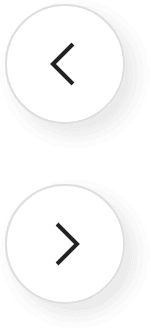
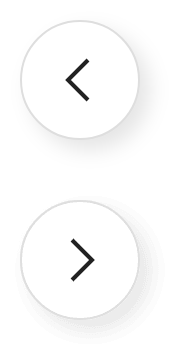
PC - 어복황제 페이지 완료

diff --git a/fish.html b/fish.html
@@ -6,6 +6,10 @@
     <meta name="viewport" content="width=device-width, initial-scale=1.0 ,maximum-scale=1.0, user-scalable=0">
     <!-- Iphone 모바일 확대 방지  maximum-scale=1.0, user-scalable=0-->
     <title>어복황제</title> 
+    <!-- Link Swiper's CSS -->
+    <link rel="stylesheet" href="https://cdn.jsdelivr.net/npm/swiper@10/swiper-bundle.min.css" />
+    <!-- Swiper JS -->
+    <script src="https://cdn.jsdelivr.net/npm/swiper@10/swiper-bundle.min.js"></script>
     <link rel="stylesheet" href="css/import.css">
     <script src="https://code.jquery.com/jquery-3.7.0.min.js" integrity="sha256-2Pmvv0kuTBOenSvLm6bvfBSSHrUJ+3A7x6P5Ebd07/g=" crossorigin="anonymous"></script>
     <script src="js/common.js"></script>
@@ -25,63 +29,76 @@
     </header>
 
     <div class="fishPage">
-        <div class="homeArea">
+        <div class="homeArea contentsSize contentsBlcok">
             <div data-app="이용자">
-                <h2></h2>
-                <mark></mark>
-                <p></p>
+                <h2>
+                    낚시, 언제 어디로<br>
+                    가면 좋을까?
+                </h2>
+                <mark>빅데이터 기반 낚시 예약 앱</mark>
+                <p>
+                    물때와 바람의 방향을 고려해 조황 정보 추천해 드립니다.<br>
+                    낚시 예약, 편하게 어복황제에서.
+                </p>
                 <a href="" class="icon-google">구글 플레이 스토어 앱 다운로드</a>
                 <a href="" class="icon-apply">애플 앱스토어 앱 다운로드</a>
             </div>
         </div>
 
-        <section class="mainFunc">
+        <hr class="fullBg">
+
+        <section class="mainFunc contentsBlcok">
             <h3>어복황제 주요 기능</h3>
             <mark>스마트 선박 예약</mark>
             <p>
-                낚시 포인트 추천부터 승선 예약까지 한 번에!
+                낚시 포인트 추천부터 승선 예약까지 한 번에!<br>
                 어복황제에서 빠르고 즐겁게 낚시를 즐기세요!
             </p>
+            <div class="swiper fishSwiper">
+                <div class="swiper-wrapper">
+                    <div class="swiper-slide"><img src="images/fish-slider01.png" alt=""></div>
+                    <div class="swiper-slide"><img src="images/fish-slider02.png" alt=""></div>
+                    <div class="swiper-slide"><img src="images/fish-slider03.png" alt=""></div>
+                    <div class="swiper-slide"><img src="images/fish-slider04.png" alt=""></div>
+                    <div class="swiper-slide"><img src="images/fish-slider05.png" alt=""></div>
+                </div>
+                <!-- <div class="swiper-button-next"></div>
+                <div class="swiper-button-prev"></div> -->
+                <div class="btn-prev"></div>
+                <div class="btn-next"></div>
+            </div>
         </section>
 
-        <section class="detailFunc">
+        <section class="detailFunc contentsSize contentsBlcok fullBg">
             <h3>어복황제 상세 기능</h3>
-            <ul data-tab="btns">
+            <ul data-tab="btns" data-styleIdx="button">
                 <li>
                     <button>
                         <b>HD 조황 라이브</b>
-                        <p>
-                            전국 조황 영상을 실시간 라이브로!
-                            HD급 생생한 낚시 현장을 체험할 수 있습니다.
-                            어복황제에서 집에서도 낚시를 즐겨 보세요!
-                        </p>
+                        전국 조황 영상을 실시간 라이브로!
+                        HD급 생생한 낚시 현장을 체험할 수 있습니다.
+                        어복황제에서 집에서도 낚시를 즐겨 보세요!
                     </button>
                 </li>
                 <li>
                     <button>
                         <b>갯바위 포인트</b>
-                        <p>
-                            전국 갯바위 인기 포인트를 한 눈에! 
-                            포인트별 특징과 낚시 정보를 제공합니다.
-                        </p>
+                        전국 갯바위 인기 포인트를 한 눈에! 
+                        포인트별 특징과 낚시 정보를 제공합니다.
                     </button>
                 </li>
                 <li>
                     <button>
                         <b>물때와 날씨</b>
-                        <p>
-                            오늘의 물때와 날짜별 물때를 제공하여 
-                            알람 설정이 가능합니다.
-                        </p>
+                        오늘의 물때와 날짜별 물때를 제공하여 
+                        알람 설정이 가능합니다.
                     </button>
                 </li>
                 <li>
                     <button>
                         <b>승선 예약</b>
-                        <p>
-                            iOT 기술과 지문 인식 기술을 이용하여 빠르고 
-                            정확한 하이패스 승선 확인이 가능합니다.
-                        </p>
+                        iOT 기술과 지문 인식 기술을 이용하여 빠르고 
+                        정확한 하이패스 승선 확인이 가능합니다.
                     </button>
                 </li>
             </ul>

diff --git a/css/page.css b/css/page.css
@@ -18,7 +18,7 @@
                 }
             }
             & .gifArea{width: 55.9322%; display: flex; justify-content: space-between; align-items: flex-start;
-                & img{width: 45.4545%; border-radius: 20px;
+                & img{width: 45.4545%; border-radius: 30px;
                     &:last-child{margin-top: 140px;}
                 }
             }
@@ -61,4 +61,72 @@
 }
 
 
+/* 어복황제, 어복황제M*/
+.fishPage, .emperorPage{
+    & .homeArea{display: flex; justify-content: center;
+        &::before{content: ''; width: 300px; aspect-ratio: 300 / 580; background-position: center; background-size: cover; margin-right: 120px;}
+        & > div{padding-block: 30px;
+            &::before{margin-bottom: 20px;}
+            & h2{font-size: 50px; font-weight: 700; line-height: 62px; margin-bottom: 60px;}
+            & mark{display: block; font-size: 24px; font-weight: 700; line-height: 29px; margin-bottom: 20px;}
+            & p{font-size: 18px; line-height: 22.5px; margin-bottom: 40px;}
+        }
+    }
+    & hr{--bg: var(--colorLine); border: none; height: 1px;}
+    & h3{font-size: 40px; font-weight: 700; line-height: 48px;}
+    & .mainFunc{text-align: center;
+        & h3{margin-bottom: 37px;}
+        & mark{font-size: 24px; font-weight: 700; display: flex; justify-content: center; align-items: center; margin-bottom: 16px;
+            &::before{content: ''; width: 36px; aspect-ratio: 1; margin-right: 12px; background-position: center; background-size: cover;}
+        }
+        & p{font-size: 18px; font-weight: 300; line-height: 22.5px;}
+    }
+    & .detailFunc{--bg: var(--colorPlane02); display: flex; flex-wrap: wrap; justify-content: space-between; align-items: center;
+        & h3{width: 100%; text-align: center; margin-bottom: 26px;}
+        & [data-tab="btns"]{ max-width: 480px;
+            & > li{
+                &:not(:last-child){margin-bottom: 15px;}
+                & button{font-size: 15px; font-weight: 500; line-height: 20.6666px; text-align: left; padding: 30px 30px 30px 126px; background-color: white; position: relative;
+                    &::before{content: ''; position: absolute; left: 50px; top: 50%; transform: translateY(-50%); 
+                        --width: 36px; width: var(--width); aspect-ratio: 1; background-repeat: no-repeat; background-position-x: 0; background-position-y: calc(var(--styleIdx) * var(--width) * -1); background-size: 200%;
+                    }
+                    & b{display: block; font-size: 18px; font-weight: 700; line-height: 21px; margin-bottom: 15px;}
+                }
+                &:is(.active, :hover) button{ background-color: var(--colorPoint); color: white;
+                    &::before{background-position-x: calc(var(--width) * -1);}
+                }
+                &.active button::after{content: ''; position: absolute; right: 0; top: 50%; transform: translate(100%, -50%); border-width: 12px 0 12px 16px; border-style: solid; border-color: transparent var(--colorPoint);}
+            }
+        }
+        & [data-tab="contents"]{width: 590px;
+            & div{display: none;
+                &.active{display: block;}
+                & img{width: 100%;}
+            }
+        }
+    }
+}
+
 /* 어복황제 */
+.fishPage{--colorPoint: var(--colorPoint01);
+    & mark{color: var(--colorPoint);}
+    & .homeArea::before{background-image: url('../images/fish-home.png');}
+    & .mainFunc{overflow: hidden;
+        & mark::before{background-image: url('../images/icon-calender.png');}
+        & p{margin-bottom: 60px;}
+        & .fishSwiper{max-width: 1020px; margin-inline: auto; overflow: visible;
+            & .swiper-wrapper{gap: 60px;
+                & .swiper-slide{width: calc((100% - 120px) / 3) !important; box-shadow: 0 0 60px 0px rgba(0,0,0,0.1); border-radius: 30px;
+                    & img{width: 100%; opacity: 0.3;}
+                    &:is(.swiper-slide-active, .swiper-slide-next, .swiper-slide-next + div) img{opacity: 1;}
+                }
+            }
+            & [class^="btn"]{--width: 80px; width: var(--width); aspect-ratio: 1; background: url('../images/icon-slider.png') no-repeat left top calc(var(--styleIdx) * var(--width) * -1)/ 100%; position: absolute; top: 50%; transform: translateY(-50%); z-index: 10; cursor: pointer;
+                &[class$="prev"]{--styleIdx: 0; left: calc((var(--width) + 40px) * -1);}
+                &[class$="next"]{--styleIdx: 1; right: calc((var(--width) + 40px) * -1);}
+            }
+        }
+    }
+
+    & .detailFunc [data-tab="btns"] > li button::before{background-image: url('../images/icon-fish.png');}
+}

diff --git a/emperor.html b/emperor.html
@@ -28,12 +28,12 @@
         <div class="homeArea">
             <div data-app="선장">
                 <h2>
-                    복잡한 낚시/출조 관리,
+                    복잡한 낚시/출조 관리,<br>
                     어복황제M으로 쉽게!
                 </h2>
                 <mark>어복황제 낚시 예약/승선자 관리 앱</mark>
                 <p>
-                    선상관리, 낚시 상품관리는 물론 조황사진 등록부터 
+                    선상관리, 낚시 상품관리는 물론 조황사진 등록부터<br>
                     조황 영상 실시간 제어도 가능합니다.
                 </p>
                 <a href="" class="icon-google">구글 플레이 스토어 앱 다운로드</a>
@@ -57,10 +57,8 @@
                 <li>
                     <button>
                         <b>스마트 출조</b>
-                        <p>
-                            낚시 예약 관리, 상품관리, 선상관리, 조황사진을
-                            쉽고 편리하게 한번에 관리합니다.
-                        </p>
+                        낚시 예약 관리, 상품관리, 선상관리, 조황사진을
+                        쉽고 편리하게 한번에 관리합니다.
                     </button>
                     <ul>
                         <li>
@@ -84,19 +82,15 @@
                 <li>
                     <button>
                         <b>선박 및 카메라 관리</b>
-                        <p>
-                            선상 낚시의 실시간 조황 영상을 편리하게 
-                            제어 및 관리합니다.
-                        </p>
+                        선상 낚시의 실시간 조황 영상을 편리하게 
+                        제어 및 관리합니다.
                     </button>
                 </li>
                 <li>
                     <button>
                         <b>조황 관리</b>
-                        <p>
-                            어복황제 조황기 등록과 댓글 알림으로
-                            고객과의 빠른 소통이 가능합니다
-                        </p>
+                        어복황제 조황기 등록과 댓글 알림으로
+                        고객과의 빠른 소통이 가능합니다
                     </button>
                 </li>
             </ul>

diff --git a/js/common.js b/js/common.js
@@ -1,14 +1,44 @@
 $(document).ready(function(){
+    // css index
     $('[data-styleIdx]').length && styleIdx();
+
+    // 텝
+    $('[data-tab="btns"]').length && tab();
+
+    // 어복황제
+    $('.fishPage').length && fishPage();
 })
 
-
+// css index
 function styleIdx(){
     const selector = $('[data-styleIdx]');
     selector.each(function(){
         const attrValue = $(this).attr('data-styleIdx');
-        $(this).children(attrValue || attrValue).each(function(i){
+        $(this).find(attrValue ? attrValue : '> *').each(function(i){
             $(this).css('--styleIdx', i);
         })
     })
+}
+
+// 텝
+function tab(){
+    const attrKey = 'data-tab';
+    $(`[${attrKey}]`).each(function(){
+        $(this).children().first().addClass('active');
+    })
+    $(`[${attrKey}="btns"]`).children().click(function(){
+        $(this).addClass('active').siblings().removeClass('active');
+        $(`[${attrKey}="contents"]`).children().eq($(this).index()).addClass('active').siblings().removeClass('active');
+    })
+}
+
+// 어복황제
+function fishPage(){
+    var fishSwiper = new Swiper(".fishSwiper", {
+        slidesPerView: 3,
+        navigation: {
+            prevEl: '.btn-prev',
+            nextEl: '.btn-next',
+        },
+    });
 }

diff --git a/css/global.css b/css/global.css
@@ -1,8 +1,7 @@
 
 /* 컨텐츠 사이즈 */
-.contentsSize{max-width: 1180px; margin-inline: auto;
-    &.block{padding-block: 120px 140px;}
-}
+.contentsSize{max-width: 1180px; margin-inline: auto;}
+.contentsBlcok{padding-block: 120px 140px;}
 
 
 /* 마크 app */
@@ -31,7 +30,7 @@ a[class^="icon"]{font-size: 16px; font-weight: 500; width: 330px; line-height: 6
 
 
 /* 해더 */
-header{position: sticky; left: 0; top: 0; background-color: white; border-bottom: 1px solid var(--colorLine);
+header{position: sticky; left: 0; top: 0; background-color: white; border-bottom: 1px solid var(--colorLine); z-index: 100;
     & h1{position: absolute; left: 30px; top: 50%; transform: translateY(-50%); width: 62px;
         & a img{width: 100%;}
     }

diff --git a/index.html b/index.html
@@ -63,7 +63,7 @@
                 </div>
             </div>
         </div>
-        <ul class="appArea contentsSize block">
+        <ul class="appArea contentsSize contentsBlcok">
             <li data-app="이용자">
                 <strong>
                     낚시, 언제 어디로<br>
@@ -99,7 +99,7 @@
                 <a href="">자세히보기</a>
             </li>
         </ul>
-        <section class="partnersArea contentsSize block fullBg">
+        <section class="partnersArea contentsSize contentsBlcok fullBg">
             <h3>파트너스</h3>
             <p>어복황제와 함께하는 기업을 소개합니다.</p>
             <ul class="imgBox" data-styleIdx>
